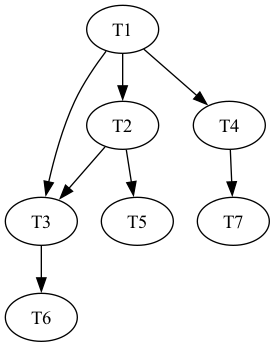
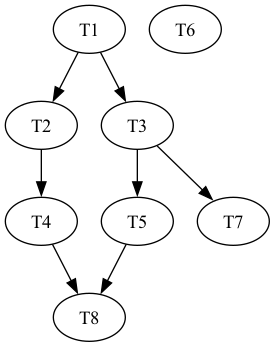
test step in progress

diff --git a/maxpar.py b/maxpar.py
@@ -2,8 +2,8 @@ import itertools
 import graphviz
 import time
 import threading
-
-
+import random
+from collections import defaultdict
 class Task:
     name = ""  # nom de la tâche
     reads = []  # domaine de lecture de la tâche
@@ -31,13 +31,33 @@ class TaskSystem:
 
     def getDependancies(self, task_name):
         return self.precedences_map[task_name]
+    def _build_graph(self):
+        graph = defaultdict(list)
+        for task_name, dependencies in self.precedences_map.items():
+            for dep in dependencies:
+                graph[dep].append(task_name)
+        return graph
+    def topological_sort(self):
+        graph = self._build_graph()
+        visited = set()
+        order = []
 
+        def dfs(node):
+            if node not in visited:
+                visited.add(node)
+                for neighbor in graph.get(node, []):
+                    dfs(neighbor)
+                order.append(node)
+
+        for task_name in self.tasks:
+            dfs(task_name)
+
+        return order[::-1]  
+    # le tri topologique permet d'avoir un ordre total.
+    # --- Exécution séquentielle ---
     def runSeq(self):
-        for task in self.tasks:
-            deps = self.precedences_map.get(task.name, [])
-            if deps:
-                for dep in deps:
-                    dep.run()
+        order = self.topological_sort()
+        for task in order:
             task.run()
 
     # conditions de bersntein :
@@ -159,8 +179,35 @@ class TaskSystem:
                 dot.edge(dep, task)
         dot.render(filename, format="png", cleanup=True)
 
-    def detTestRnd(self, globals):
-        print("Not implemented yet")
+    def detTestRnd(self, globals_vars, nb_iterations=2):
+        all_variables = set()
+        for task in self.tasks:
+            all_variables.update(task.reads)
+            all_variables.update(task.writes)
+        inits_values = {}
+        for _ in range(nb_iterations):
+            print(f"--- Iteration {_+1} ---")
+            for var in all_variables:
+                inits_values[var]=random.randint(0, 10)
+        print(f"Initial variable values: {inits_values}")
+        print("Start determinism test...")
+        for var, value in inits_values.items():
+            globals_vars[var] = value
+
+        self.run()
+        result1={var: globals_vars[var] for var in all_variables}
+        for var, value in inits_values.items():
+            globals_vars[var] = value
+        self.run()
+        result2={var: globals_vars[var] for var in all_variables}
+        print(f"Result of first run: {result1}")
+        print(f"Result of second run: {result2}")
+        if result1 != result2:
+            print("The system is not deterministic.")
+            return False
+        else:
+            print("The system is deterministic.")
+            return True
 
     def parCost(self):
         start = time.time()
@@ -169,7 +216,6 @@ class TaskSystem:
         start = time.time()
         self.run()
         par_time = time.time() - start
-
         print(f"Sequential time: {seq_time:.2f} secondes")
         print(f"Parallel time: {par_time:.2f} secondes")
         print("time_difference: {:.2f} secondes".format((seq_time - par_time)))

diff --git a/test.py b/test.py
@@ -6,24 +6,32 @@ memory = {"X": 0, "Y": 0, "Z": 0}
 
 # Fonctions avec un petit sleep pour que parCost() montre une différence
 def run_t1():
-    time.sleep(0.5)
     memory["X"] = 10
     print("T1 terminé")
 
 def run_t2():
-    time.sleep(0.5)
     memory["Y"] = 20
     print("T2 terminé")
 
 def run_t3():
-    time.sleep(0.5)
     memory["Z"] = memory["X"] + memory["Y"]
-    print(f"T3 terminé (Z={memory['Z']})")
+    print(f"T3 terminé)")
 
 def run_t4():
-    time.sleep(0.5)
     memory["X"] += 5
     print("T4 terminé")
+def run_t5():
+    memory["X"] *= 2
+    print("T5 terminé")
+def run_t6():
+    memory["Y"] *= 2
+    print("T6 terminé")
+def run_t7():
+    memory["Z"] *= 2
+    print("T7 terminé")
+def run_t8():
+    memory["X"] -= 3
+    print("T8 terminé")
 
 if __name__ == "__main__":
     # Définition des objets Task
@@ -31,32 +39,39 @@ if __name__ == "__main__":
     t2 = Task("T2", [], ["Y"], run_t2)
     t3 = Task("T3", ["X"], ["Z"], run_t3)
     t4 = Task("T4", ["X"], [], run_t4)
-    t5 = Task("T5", ["X"], [], run_t2)
-    t6 = Task("T6", ["X"], [], run_t3)
-    t7 = Task("T7", ["X"], [], run_t4)
+    t5 = Task("T5", ["X"], [], run_t5)
+    t6 = Task("T6", ["X"], [], run_t6)
+    t7 = Task("T7", ["X"], [], run_t7)
+    t8 = Task("T8", ["X"], [], run_t8)
     
-    tasks = [t1, t2, t3, t4, t5, t6, t7]
+    tasks = [t1, t2, t3, t4, t5, t6, t7, t8]
 
     # Précédences minimales : on laisse Bernstein faire le reste
     precedence = {
         "T2": ["T1"],
-        "T3": ["T1", "T2"],
-        "T4": ["T1"],
-        "T5": ["T2"],
-        "T6": ["T3"],
-        "T7": ["T4"]
+        "T3": ["T1"],
+        "T4": ["T2"],
+        "T5": ["T3"],
+        "T7": ["T3"],
+        "T8": ["T4", "T5"]
     }
 
     # Initialisation du système
     sys = TaskSystem(tasks, precedence)
-    sys.temporary_draw_test()
+    #sys.temporary_draw_test()
+    #sys.detTestRnd(globals(), nb_iterations=3)
     # 1. Génération du PNG dans le répertoire courant
     print("--- Génération du graphe ---")
     #sys.draw("mon_graphe_execution")
+    #sys.runSeq()
+    sys.detTestRnd(globals(), nb_iterations=3)
 
     # 2. Test des performances (Séquentiel vs Parallèle)
     print("\n--- Analyse des coûts ---")
-    #sys.parCost()
+    print("Sequential execution :")
+    #print(sys.topological_sort())
+    #sys.runSeq()
+    #sys.run()
 
-    # 3. Vérification du résultat final
-    #print(f"\nÉtat final de la mémoire : {memory}")
+    #3. Vérification du résultat final
+    print(f"\nÉtat final de la mémoire : {memory}")
